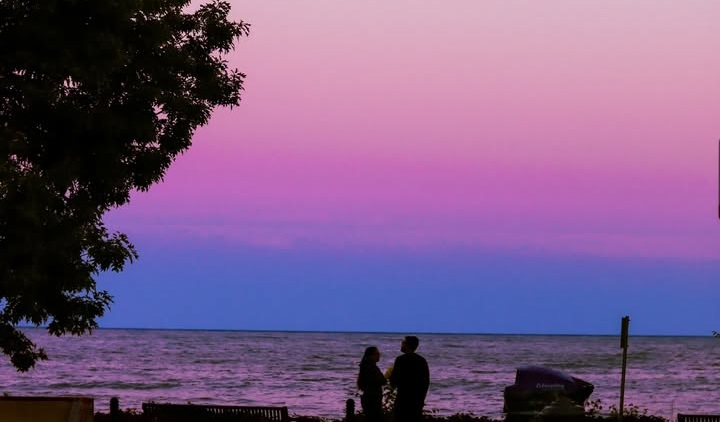
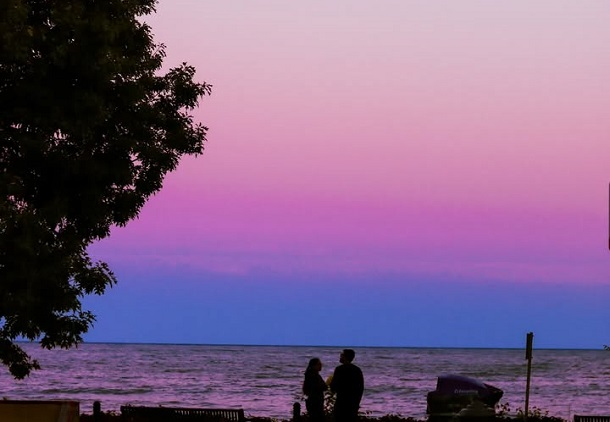
fixed 2 images in gallery layout

diff --git a/src/content/examples/photographer.ts b/src/content/examples/photographer.ts
@@ -92,7 +92,7 @@ export const photographerSite = {
     { src: "/assets/examples/photographer/gallery/04.jpg", alt: "Family laughing together" },
     { src: "/assets/examples/photographer/gallery/05.jpg", alt: "Wedding venue with flowers" },
     { src: "/assets/examples/photographer/gallery/06.jpg", alt: "Couple dancing at reception" },
-    { src: "/assets/examples/photographer/gallery/07.jpg", alt: "Rustic outdoor ceremony setup" },
+    { src: "/assets/examples/photographer/gallery/07.webp", alt: "Rustic outdoor ceremony setup" },
     { src: "/assets/examples/photographer/gallery/08.jpg", alt: "Kids playing at wedding" },
     { src: "/assets/examples/photographer/gallery/09.jpg", alt: "Reception decor and lights" },
     { src: "/assets/examples/photographer/gallery/10.jpg", alt: "Engagement photo in forest" },
